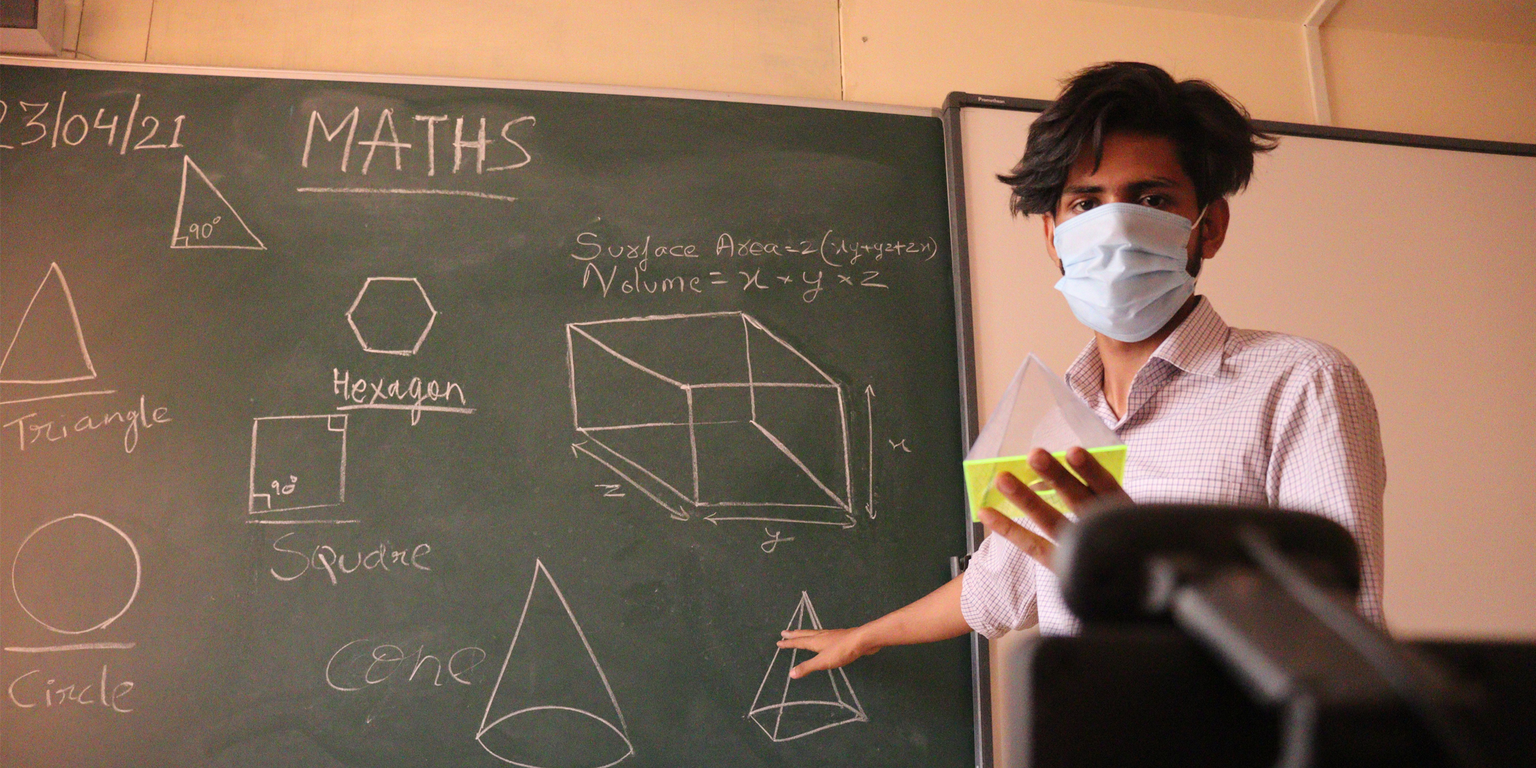
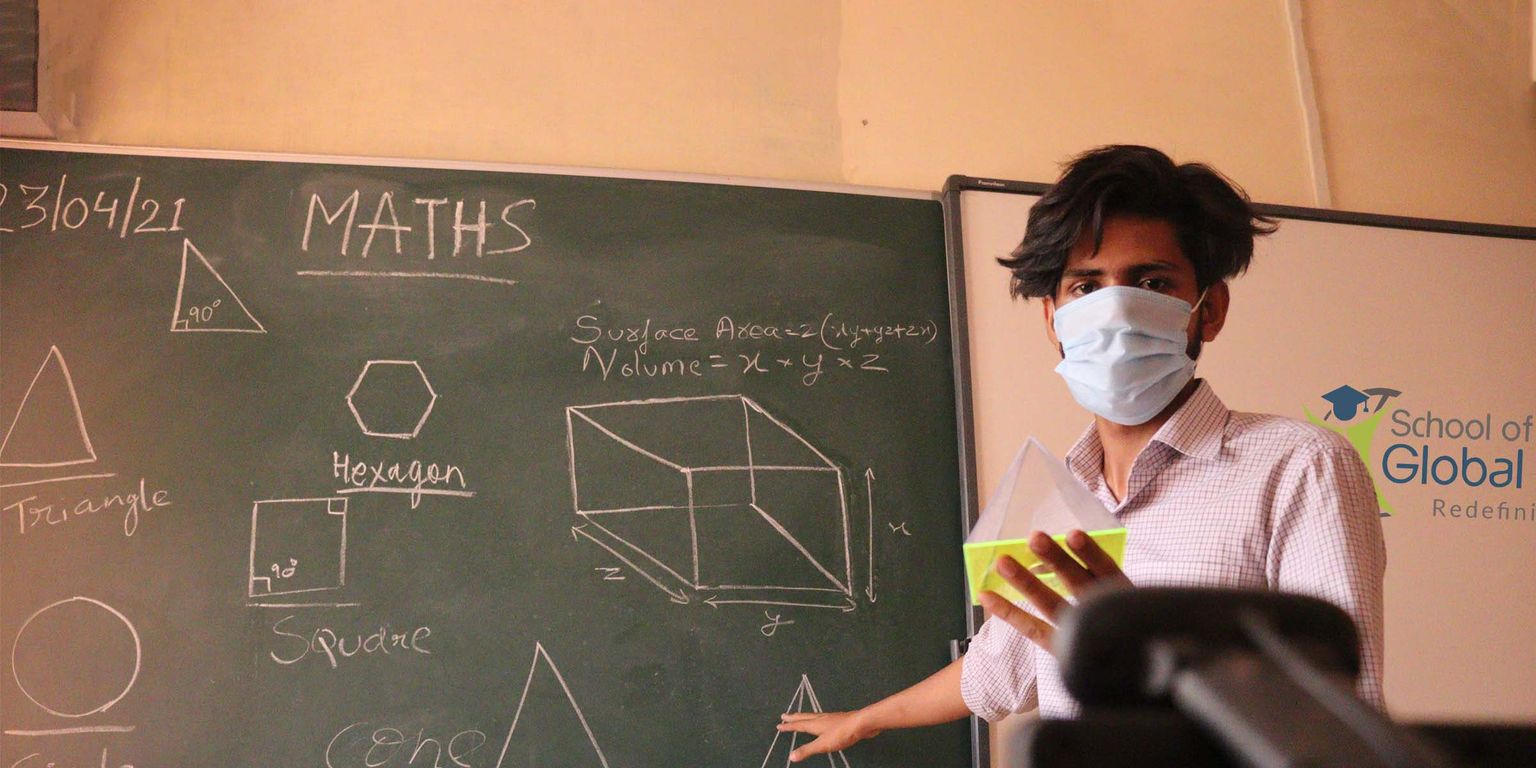
3rd round of chnages

diff --git a/index.html b/index.html
@@ -287,7 +287,7 @@
       <div class="swiper-container swiper-slider" data-effect="frame-trapeze" data-loop="true" data-autoplay="5500" data-speed="1200" data-mousewheel="false" data-keyboard="true" data-frame-fill="url(#gradient1)">
         <div class="swiper-wrapper">
           <div class="swiper-slide">
-            <div class="swiper-slide-img" style="background-image: url(images/best-global-standard-interactive-online-classes-patna-1.jpg);" data-swiper-anime="{ &quot;animation&quot;: &quot;swiperSlideRotate&quot;, &quot;duration&quot;: 2000, &quot;delay&quot;: 600 }"></div>
+            <div class="swiper-slide-img" style="background-image: url(images/best-global-standard-interactive-online-classes-patna.jpg);" data-swiper-anime="{ &quot;animation&quot;: &quot;swiperSlideRotate&quot;, &quot;duration&quot;: 2000, &quot;delay&quot;: 600 }"></div>
             <div class="swiper-slide-caption context-dark">
               <h2 data-swiper-anime="{ &quot;animation&quot;: &quot;swiperContentStack&quot;, &quot;duration&quot;: 1000, &quot;delay&quot;: 500 }">Your E-Learning</br>Partner</h2>
               <div class="group-lg group-middle" data-swiper-anime="{ &quot;animation&quot;: &quot;swiperContentStack&quot;, &quot;duration&quot;: 1000, &quot;delay&quot;: 700 }">
